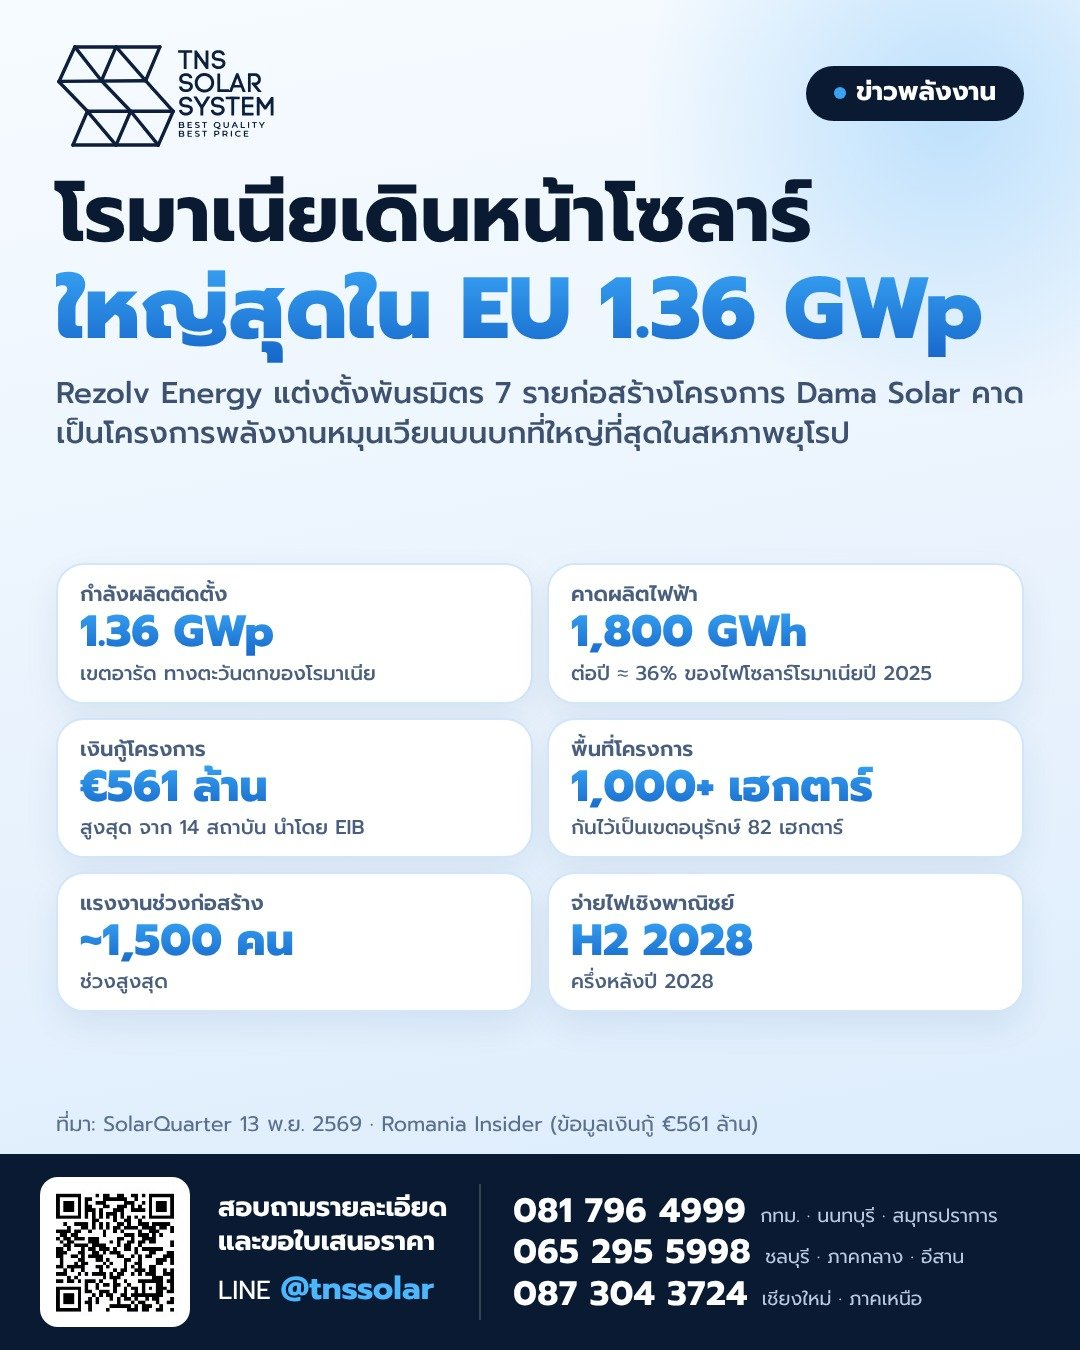
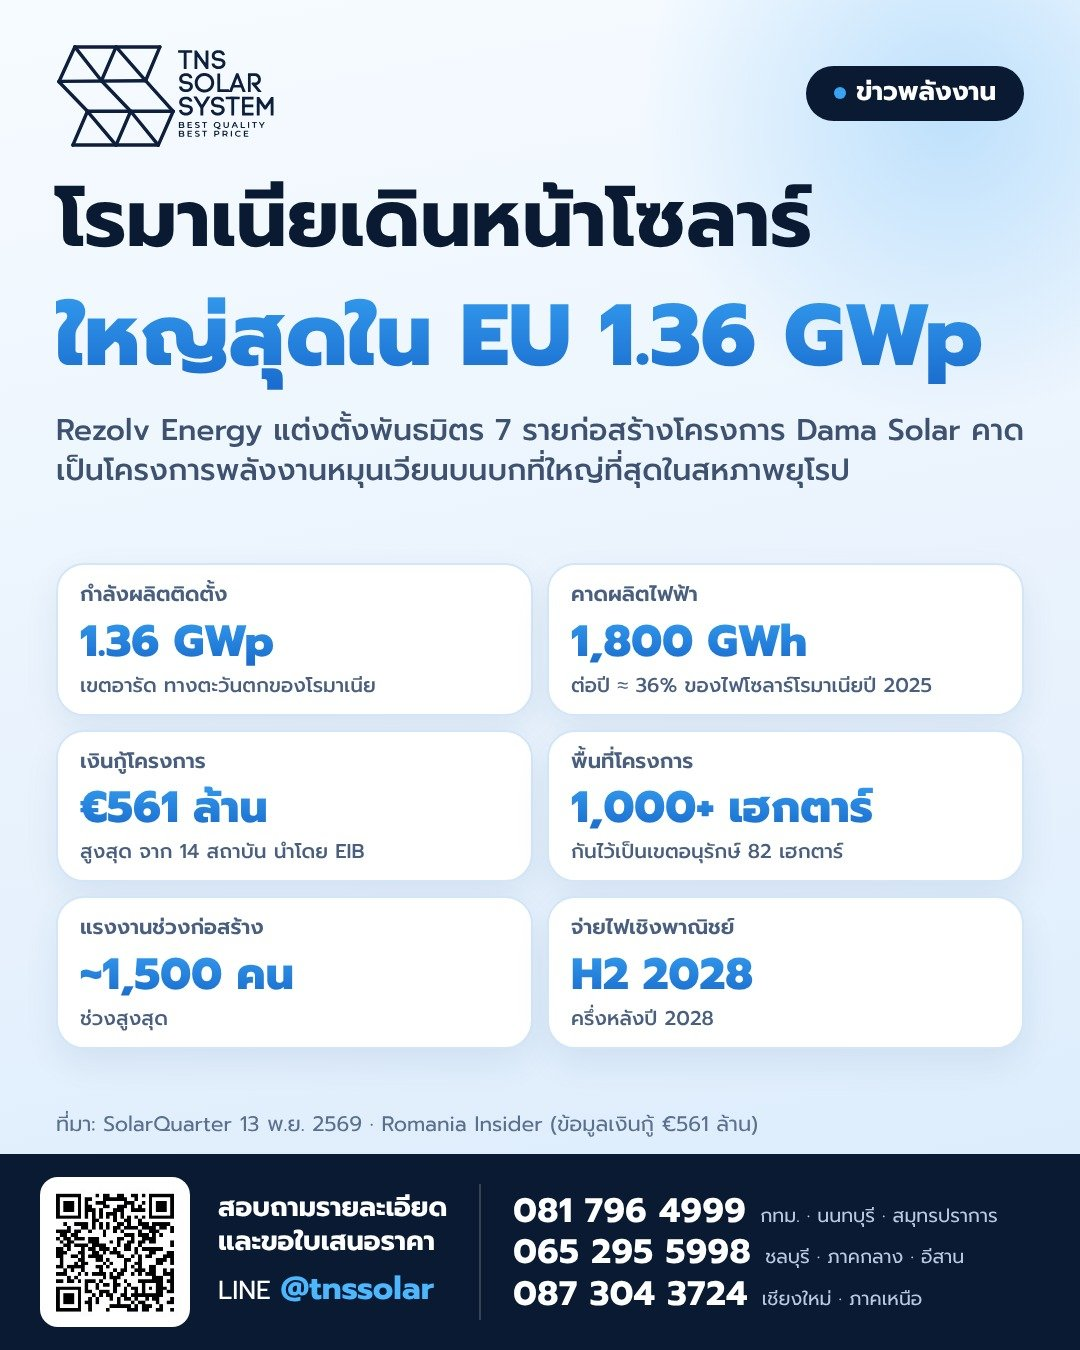
news-691113: ภาพโพสต์ v2 (แก้สระ/วรรณยุกต์ตัวไล่สีหาย) + คลิปเรื่องที่ 4 v2
Claude-Session: https://claude.ai/code/session_01J9sqUUbsTcDkDmC9iKGztB

Changed region(s): [[0.0306, 0.4356, 0.9472, 0.7778], [0.0306, 0.1244, 0.9472, 0.3733]]

diff --git a/data.js b/data.js
@@ -23,7 +23,7 @@ window.COLLECTIONS = [
    "thumb": "t/n1.jpg",
    "ratio": "9/16",
    "imgRatio": "1080/1350",
-   "fileImg": "TNS-Post_ข่าวพลังงาน_691113_1_กฟผโซลาร์ลอยน้ำ1638MW_4x5_v1.jpg",
+   "fileImg": "TNS-Post_ข่าวพลังงาน_691113_1_กฟผโซลาร์ลอยน้ำ1638MW_4x5_v2.jpg",
    "fb": "☀ ข่าวพลังงาน | กฟผ. เดินหน้าโซลาร์ลอยน้ำอีก 3 เขื่อน 1,638 MW\n\nการไฟฟ้าฝ่ายผลิตแห่งประเทศไทย (กฟผ.) เตรียมขยายโซลาร์เซลล์ลอยน้ำในเขื่อน อยู่ระหว่างรอคณะรัฐมนตรีพิจารณาอนุมัติ\n⚡ จ่ายไฟแล้ว 2 แห่ง: เขื่อนสิรินธร (อุบลราชธานี) และเขื่อนอุบลรัตน์ (ขอนแก่น) รวม 69 MW\n🏞 รออนุมัติอีก 3 แห่ง: เขื่อนภูมิพล (ตาก) เขื่อนศรีนครินทร์ และเขื่อนวชิราลงกรณ (กาญจนบุรี) รวม 1,638 MW\n📜 กฟผ. ออกใบรับรองการผลิตไฟฟ้าจากพลังงานหมุนเวียน (REC) แล้วรวม 37.82 ล้าน REC ณ สิ้นเดือนกันยายน 2569\n🌿 ไฟฟ้าสีเขียว UGT2 ใช้กลุ่มโรงไฟฟ้าพลังงานหมุนเวียนใหม่ 245 แห่ง (โซลาร์ภาคพื้นดิน โซลาร์ร่วมกับแบตเตอรี่ และพลังงานลม)\n🔋 พัฒนาระบบกักเก็บพลังงานแบตเตอรี่ (BESS) และโรงไฟฟ้าพลังน้ำแบบสูบกลับ รองรับความผันผวนของพลังงานหมุนเวียน\n\n💡 บ้านและธุรกิจใช้หลังคาที่มีอยู่ผลิตไฟใช้เองได้ TNS Solar ออกแบบขนาดระบบจากบิลค่าไฟจริง\nTNS Solar เป็นผู้รับจ้างขึ้นทะเบียน กฟน. P00639 · กฟภ. P00479\nที่มา: แนวหน้า (11 พ.ย. 2569) · InfoQuest\n\n📩 สอบถามรายละเอียด / ขอใบเสนอราคา\nLINE: @tnssolar\n☎ 081 796 4999 (กทม. · นนทบุรี · สมุทรปราการ)\n☎ 065 295 5998 (ชลบุรี · ภาคกลาง · อีสาน)\n☎ 087 304 3724 (เชียงใหม่ · ภาคเหนือ)\n🌐 tnsnetwork\n📍 สาขา เชียงใหม่ | ชลบุรี | กรุงเทพมหานคร\n\n#ข่าวพลังงาน #โซลาร์ลอยน้ำ #กฟผ #พลังงานสะอาด #โซลาร์เซลล์ #TNSSolar",
    "tt": "กฟผ. เดินหน้าโซลาร์ลอยน้ำอีก 3 เขื่อน รวม 1,638 MW ☀💧 หลังคาบ้านก็ผลิตไฟได้ ปรึกษา LINE @tnssolar\n#ข่าวพลังงาน #โซลาร์ลอยน้ำ #โซลาร์เซลล์ #TNSSolar"
   },
@@ -38,7 +38,7 @@ window.COLLECTIONS = [
    "thumb": "t/n2.jpg",
    "ratio": "9/16",
    "imgRatio": "1080/1350",
-   "fileImg": "TNS-Post_ข่าวพลังงาน_691113_2_เตือนระวังขอซื้อหลังคาโซลาร์_4x5_v1.jpg",
+   "fileImg": "TNS-Post_ข่าวพลังงาน_691113_2_เตือนระวังขอซื้อหลังคาโซลาร์_4x5_v2.jpg",
    "fb": "☀ ข่าวพลังงาน | รัฐกำชับท้องถิ่นดูแลโซลาร์รูฟ เตือนระวังผู้ขอซื้อ-เช่าหลังคาบ้าน\n\nนายกรัฐมนตรีกำชับ อบจ. และ อบต. ดูแลและจัดระเบียบโครงการโซลาร์รูฟท็อปในพื้นที่ เพื่อป้องกันการฉวยโอกาส หลังมีรายงานการติดต่อขอซื้อหลังคาบ้านประชาชน\n💰 รัฐสนับสนุนค่าติดตั้ง 50,000 บาทต่อครัวเรือน ประชาชนเลือกผู้ติดตั้งเองได้\n🏦 ต้องการเงินเพิ่ม ธนาคารของรัฐพร้อมให้สินเชื่อ\n⚡ ไฟที่เหลือใช้ขายคืนเข้าระบบได้ อัตรา 2.20 บาท/หน่วย ไม่เกิน 5 kW ต่อมิเตอร์\n🗓 โครงการโซลาร์ภาคประชาชน เปิดลงทะเบียน 27 ต.ค. 2569 – 31 ม.ค. 2570\n\n✅ ก่อนเซ็นสัญญา เช็ก 3 ข้อ\n1) ผู้รับจ้างขึ้นทะเบียนกับ กฟน. หรือ กฟภ. หรือไม่\n2) อ่านสัญญาให้ละเอียด ใครเป็นเจ้าของระบบ และสิทธิ์ในหลังคา\n3) ขอเงื่อนไขรับประกันเป็นลายลักษณ์อักษร\nTNS Solar เป็นผู้รับจ้างขึ้นทะเบียน กฟน. P00639 · กฟภ. P00479\nที่มา: THE STANDARD · สยามรัฐ (12 พ.ย. 2569) · Thai PBS · Amarin TV\n\n📩 สอบถามรายละเอียด / ขอใบเสนอราคา\nLINE: @tnssolar\n☎ 081 796 4999 (กทม. · นนทบุรี · สมุทรปราการ)\n☎ 065 295 5998 (ชลบุรี · ภาคกลาง · อีสาน)\n☎ 087 304 3724 (เชียงใหม่ · ภาคเหนือ)\n🌐 tnsnetwork\n📍 สาขา เชียงใหม่ | ชลบุรี | กรุงเทพมหานคร\n\n#ข่าวพลังงาน #โซลาร์ภาคประชาชน #โซลาร์รูฟท็อป #โซลาร์เซลล์ #ค่าไฟ #TNSSolar",
    "tt": "มีคนมาขอซื้อหรือเช่าหลังคาบ้าน? อ่านสัญญาให้ดี เช็กผู้รับจ้างที่ขึ้นทะเบียนการไฟฟ้า ☀🏠 ปรึกษา LINE @tnssolar\n#ข่าวพลังงาน #โซลาร์ภาคประชาชน #โซลาร์รูฟท็อป #TNSSolar"
   },
@@ -53,7 +53,7 @@ window.COLLECTIONS = [
    "thumb": "t/n3.jpg",
    "ratio": "9/16",
    "imgRatio": "1080/1350",
-   "fileImg": "TNS-Post_ข่าวพลังงาน_691113_3_โรมาเนียโซลาร์ใหญ่สุดEU_4x5_v1.jpg",
+   "fileImg": "TNS-Post_ข่าวพลังงาน_691113_3_โรมาเนียโซลาร์ใหญ่สุดEU_4x5_v2.jpg",
    "fb": "☀ ข่าวพลังงาน | โรมาเนียเดินหน้าโซลาร์ฟาร์ม Dama Solar 1.36 GWp ใหญ่สุดใน EU\n\nRezolv Energy แต่งตั้งพันธมิตร 7 รายเพื่อก่อสร้างโครงการ Dama Solar ในเขตอารัด ทางตะวันตกของโรมาเนีย คาดว่าจะเป็นโครงการพลังงานหมุนเวียนบนบกที่ใหญ่ที่สุดในสหภาพยุโรป\n⚡ กำลังผลิตติดตั้ง 1.36 GWp บนพื้นที่กว่า 1,000 เฮกตาร์\n🔆 คาดผลิตไฟได้ราว 1,800 GWh ต่อปี ≈ 36% ของไฟฟ้าจากโซลาร์ทั้งโรมาเนียในปี 2025\n💶 เงินกู้โครงการสูงสุด 561 ล้านยูโร จาก 14 สถาบันการเงิน โดยมีธนาคารเพื่อการลงทุนแห่งยุโรป (EIB) เป็นผู้ลงทุนหลัก\n👷 จ้างงานช่วงก่อสร้างสูงสุดราว 1,500 คน และกันพื้นที่ 82 เฮกตาร์ไว้เป็นเขตอนุรักษ์ธรรมชาติ\n🗓 กำหนดจ่ายไฟเชิงพาณิชย์ครึ่งหลังปี 2028\n\n💡 โซลาร์ขนาดบ้าน 5–10 kW ก็ช่วยลดค่าไฟช่วงกลางวันได้ TNS Solar คำนวณขนาดระบบจากบิลค่าไฟจริง\nTNS Solar เป็นผู้รับจ้างขึ้นทะเบียน กฟน. P00639 · กฟภ. P00479\nที่มา: SolarQuarter (13 พ.ย. 2569) · Romania Insider\n\n📩 สอบถามรายละเอียด / ขอใบเสนอราคา\nLINE: @tnssolar\n☎ 081 796 4999 (กทม. · นนทบุรี · สมุทรปราการ)\n☎ 065 295 5998 (ชลบุรี · ภาคกลาง · อีสาน)\n☎ 087 304 3724 (เชียงใหม่ · ภาคเหนือ)\n🌐 tnsnetwork\n📍 สาขา เชียงใหม่ | ชลบุรี | กรุงเทพมหานคร\n\n#ข่าวพลังงาน #โซลาร์ฟาร์ม #พลังงานหมุนเวียน #โซลาร์เซลล์ #ยุโรป #TNSSolar",
    "tt": "โรมาเนียสร้างโซลาร์ฟาร์ม 1.36 GWp ใหญ่สุดใน EU ☀🇪🇺 บ้านคุณเริ่มที่ 5 kW ก็ลดค่าไฟได้ ปรึกษา LINE @tnssolar\n#ข่าวพลังงาน #โซลาร์ฟาร์ม #พลังงานหมุนเวียน #TNSSolar"
   },
@@ -63,12 +63,12 @@ window.COLLECTIONS = [
    "title": "MEA แนะเปลี่ยนชื่อผู้ใช้ไฟให้ตรงเจ้าของมิเตอร์ ก่อนร่วมโซลาร์ภาคประชาชน",
    "video": "v/n4.mp4",
    "poster": "p/n4.jpg",
-   "file": "TNS-News_691113_4_MEAเปลี่ยนชื่อเจ้าของมิเตอร์_9x16_v1.mp4",
+   "file": "TNS-News_691113_4_MEAเปลี่ยนชื่อเจ้าของมิเตอร์_9x16_v2.mp4",
    "img": "i/n4.jpg",
    "thumb": "t/n4.jpg",
    "ratio": "9/16",
    "imgRatio": "1080/1350",
-   "fileImg": "TNS-Post_ข่าวพลังงาน_691113_4_MEAเปลี่ยนชื่อเจ้าของมิเตอร์_4x5_v1.jpg",
+   "fileImg": "TNS-Post_ข่าวพลังงาน_691113_4_MEAเปลี่ยนชื่อเจ้าของมิเตอร์_4x5_v2.jpg",
    "fb": "☀ ข่าวพลังงาน | ก่อนร่วมโซลาร์ภาคประชาชน เช็กชื่อเจ้าของมิเตอร์ให้ถูกต้อง\n\nการไฟฟ้านครหลวง (MEA) แนะนำผู้ใช้ไฟฟ้าอัปเดตชื่อผู้ใช้ไฟฟ้าให้ตรงกับชื่อเจ้าของมิเตอร์ เพื่อความสะดวกในการเข้าร่วมโครงการโซลาร์ภาคประชาชน\n🏠 ถ้ามีการซื้อขาย โอนกรรมสิทธิ์ หรือให้เช่าบ้าน ควรเปลี่ยนชื่อเจ้าของมิเตอร์\n🛡 ป้องกันการต้องรับภาระหนี้ค่าไฟของผู้อื่น เพราะการไฟฟ้าจะติดตามหนี้กับผู้ที่มีชื่อเป็นเจ้าของมิเตอร์เป็นหลัก\n📱 ยื่นเองผ่านแอป MEA Smart Life: เมนูอื่น ๆ › MEA e-Service › บริการขอเปลี่ยนแปลงข้อมูล › ขอเปลี่ยนผู้ใช้ไฟฟ้า หรือทางเว็บไซต์ MEA e-Service (meaeservice.mea.or.th)\n📄 เอกสาร: บัตรประชาชน (นิติบุคคลใช้หนังสือรับรองการจดทะเบียน) · เอกสารแสดงความเกี่ยวพันกับสถานที่ เช่น ทะเบียนบ้าน สัญญาซื้อขาย สัญญาเช่า หรือโฉนด · หนังสือมอบอำนาจ (กรณีให้ผู้อื่นยื่นแทน)\n☎ สอบถาม MEA โทร. 1130 หรือ LINE MEA Connect (@MEAthailand)\n(ข้อมูลนี้สำหรับผู้ใช้ไฟในเขตการไฟฟ้านครหลวง: กรุงเทพฯ นนทบุรี สมุทรปราการ)\n\n💡 ก่อนติดโซลาร์ เช็กชื่อเจ้าของมิเตอร์ให้ถูกต้อง เตรียมบิลค่าไฟย้อนหลัง และเลือกผู้รับจ้างที่ขึ้นทะเบียนกับการไฟฟ้า\nTNS Solar เป็นผู้รับจ้างขึ้นทะเบียน กฟน. P00639 · กฟภ. P00479\nที่มา: เพจการไฟฟ้านครหลวง MEA (13 พ.ย. 2569)\n\n📩 สอบถามรายละเอียด / ขอใบเสนอราคา\nLINE: @tnssolar\n☎ 081 796 4999 (กทม. · นนทบุรี · สมุทรปราการ)\n☎ 065 295 5998 (ชลบุรี · ภาคกลาง · อีสาน)\n☎ 087 304 3724 (เชียงใหม่ · ภาคเหนือ)\n🌐 tnsnetwork\n📍 สาขา เชียงใหม่ | ชลบุรี | กรุงเทพมหานคร\n\n#ข่าวพลังงาน #โซลาร์ภาคประชาชน #การไฟฟ้านครหลวง #โซลาร์รูฟท็อป #TNSSolar",
    "tt": "จะร่วมโซลาร์ภาคประชาชน เช็กชื่อเจ้าของมิเตอร์ให้ตรงก่อน ✅ เปลี่ยนเองได้ผ่านแอป MEA Smart Life ☀ ปรึกษา LINE @tnssolar\n#ข่าวพลังงาน #โซลาร์ภาคประชาชน #MEA #TNSSolar"
   }
